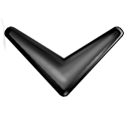
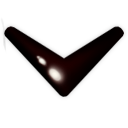
new arrows, transitions

Changed region(s): [[0.0625, 0.1875, 0.9688, 0.75]]

diff --git a/new/index1.html b/new/index1.html
@@ -74,45 +74,46 @@
       <h1>Learning</h1>
       <div class="col-md-3">
       <h2>3B</h2> 
+      <!--<img src="/Users/yudasinal/Downloads/TUM_logo.png"> -->
         <ul>
-              <li>MATH 115 Linear Algebra for Engineering</li>
-              <li>MATH 116 Calculus 1 for Engineering</li>
-              <li>PHYS 115 Mechanics</li>
-              <li>ChE 100 Chemical Engineering Concepts 1</li>
-              <li>CHE 102 Chemistry for Engineers</li>
+              <li><a href="">iOS Praktikum 2014</a></li>
+              <li>Coming soon...</li>
+              <li style = "visibility: hidden">h</li>
+              <li style = "visibility: hidden">f</li>
+              <li style = "visibility: hidden">g</li>
         </ul> 
         </div>
 
         <div class="col-md-3">
-          <h2>3B</h2> 
+          <h2>Coursera</h2> 
         <ul>
-              <li>MATH 115 Linear Algebra for Engineering</li>
-              <li>MATH 116 Calculus 1 for Engineering</li>
-              <li>PHYS 115 Mechanics</li>
-              <li>ChE 100 Chemical Engineering Concepts 1</li>
-              <li>CHE 102 Chemistry for Engineers</li>
+              <li>Algorithms 2</li>
+              <li>Algorithms 1</li>
+              <li>Introduction to Databases</li>
+              <li>Programming for Android handheld systems</li>
+              <li>Fundamentals of Programming in Python</li>
         </ul> 
         </div>
 
         <div class="col-md-3">
-      <h2>3B</h2> 
+      <h2>3A (Techincal University Munich)</h2> 
         <ul>
-              <li>MATH 115 Linear Algebra for Engineering</li>
-              <li>MATH 116 Calculus 1 for Engineering</li>
-              <li>PHYS 115 Mechanics</li>
-              <li>ChE 100 Chemical Engineering Concepts 1</li>
-              <li>CHE 102 Chemistry for Engineers</li>
+              <li>Programming for Engineers in C</li>
+              <li>Design of Experiment and Statistics 2</li>
+              <li>Bioprocess Engineering</li>
+              <li>Laboratory in thermodynamics</li>
+              <li>German B1 intermediate</li>
         </ul> 
         </div>
 
         <div class="col-md-3">
-          <h2>3B</h2> 
+          <h2>Codecademy</h2> 
         <ul>
-              <li>MATH 115 Linear Algebra for Engineering</li>
-              <li>MATH 116 Calculus 1 for Engineering</li>
-              <li>PHYS 115 Mechanics</li>
-              <li>ChE 100 Chemical Engineering Concepts 1</li>
-              <li>CHE 102 Chemistry for Engineers</li>
+              <li>Web Development</li>
+              <li>JavaScript</li>
+              <li style = "visibility: hidden">h</li>
+              <li style = "visibility: hidden">f</li>
+              <li style = "visibility: hidden">g</li>
         </ul> 
         </div>
 
@@ -178,7 +179,7 @@
             <a href="http://www.instagram.com/yudasinal" class="instagram-link" target="_blank">Instagram</a>
           </li>
           <li>
-            <a href="http://www.linkedin.com/yudasinal" class="linkedin-link" target="_blank">LinkedIn</a>
+            <a href="http://www.linkedin.com/in/yudasinal" class="linkedin-link" target="_blank">LinkedIn</a>
           </li>
           <li><a href="http://www.github.com/yudasinal" class="github-link" target="_blank">GitHub</a></li>
         </ul>
@@ -192,6 +193,7 @@
       
       
   </div>
+</div>
 
       <script src="https://ajax.googleapis.com/ajax/libs/jquery/1.8.3/jquery.min.js"></script>
       <script type="text/javascript" src="js/custom.js"></script>

diff --git a/new/css/Custom1.css b/new/css/Custom1.css
@@ -42,7 +42,7 @@ a {
         height: 100%;
         background-attachment: fixed;
         position:relative; 
-        background: url(/Users/yudasinal/Downloads/Personal_Website-master/new/photo.jpg) no-repeat center center fixed; 
+        background: url(/Users/yudasinal/Downloads/lyuba_final.jpg) no-repeat center center fixed; 
         -webkit-background-size: cover;
         -moz-background-size: cover;
         -o-background-size: cover;
@@ -55,7 +55,7 @@ a {
         height: 20vmin;
         background-color: black;
         position: relative;
-        margin: 220px 150px auto;
+        margin: 280px 130px auto;
         border-radius: 15px;
         opacity: 0.5;
         fontilter: alpha(opacity=50); 
@@ -104,7 +104,7 @@ a {
         bottom:0px;
         left:50%;
         background-size: cover;
-        background-image:url(/Users/yudasinal/Downloads/Personal_Website-master/new/arrow_transparent.png);
+        background-image:url(/Users/yudasinal/Documents/Personal_Website/new/arrow_transparent.png);
         transition: all 0.5s linear;
         -webkit-transition: all 0.5s linear;
         -moz-transition: all 0.5s linear;
@@ -112,7 +112,7 @@ a {
         -o-transition: all 0.5s linear;
     }
     .my_arrow:hover{
-        background-image:url(/Users/yudasinal/Downloads/Personal_Website-master/new/arrow.png);
+        background-image:url(/Users/yudasinal/Documents/Personal_Website/new/arrow.png);
         cursor:pointer;
     }
 
@@ -144,10 +144,6 @@ a {
         font-size: 25px; 
         margin-bottom: 15px;
         text-indent: 60px;
-    }
-
-    #projects a {
-        font-weight: bold;
     }
 
     #last {
@@ -187,7 +183,7 @@ a {
     }
 
     #learning h1 {
-        padding-top: 70px;
+        padding-top: 50px;
         padding-left: 70px;
         color: white;
     }
@@ -196,6 +192,12 @@ a {
         padding-top: 15px;
         padding-left: 90px;
         color: white;
+    }
+
+    #learning img {
+        float:right;
+        width: 10vmin;
+        height: 5vmin;
     }
 
     #learning li {

diff --git a/new/bootstrap/css/bootstrap.css b/new/bootstrap/css/bootstrap.css
@@ -323,14 +323,8 @@ textarea {
 
 a {
 
-  color: #D7837F;
+  color: #ffffff;
   text-decoration: none;
-  -webkit-transition: 0.5s;
-    -moz-transition: 0.5s;
-    -o-transition: 0.5s;
-    -ms-transition: 0.5s;
-    transition: 0.5s;
-
 }
 
 a:hover,
